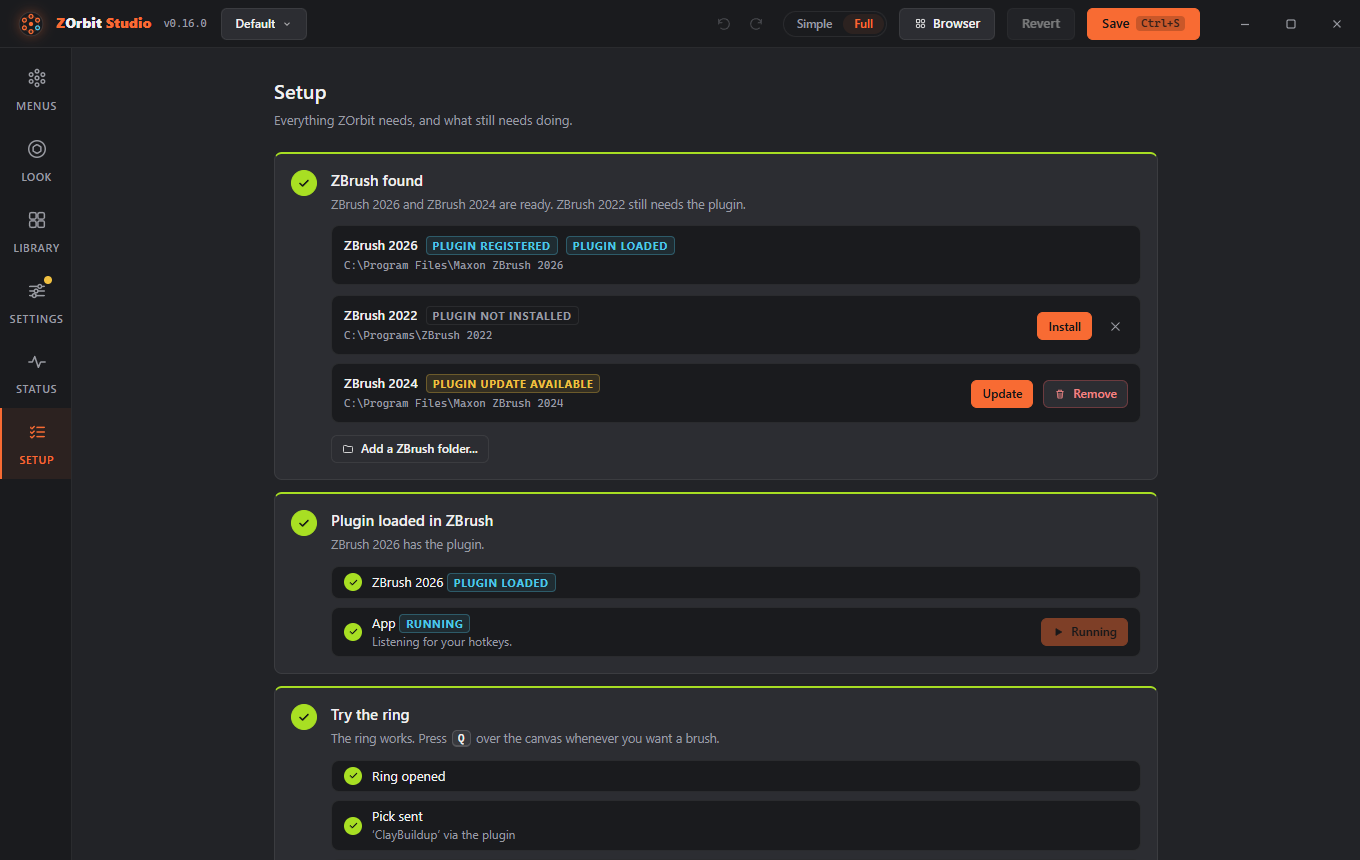
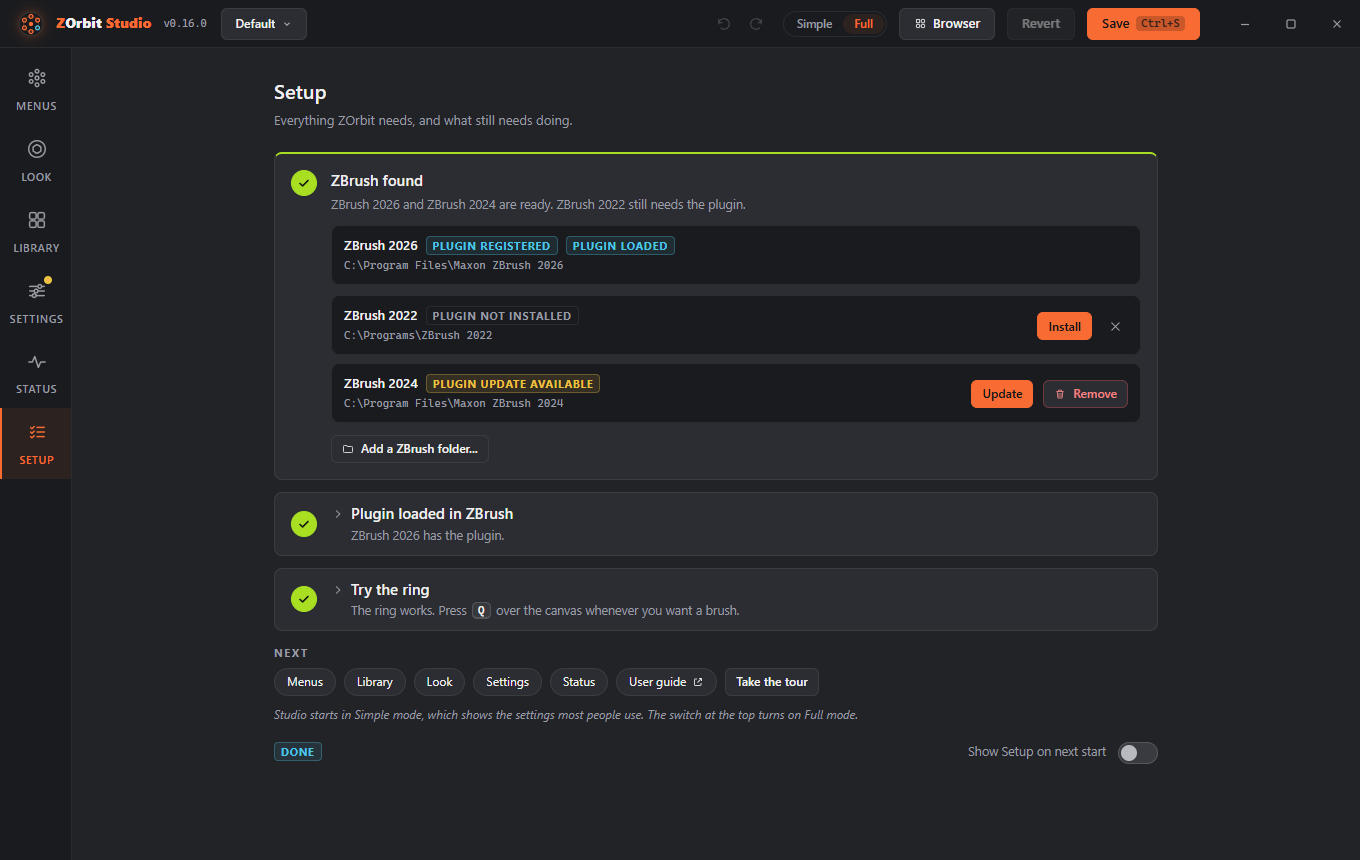
Setup and the tour: three steps and six stops (#117)
* Setup and the tour: shorter (#114)

Setup has three steps (ZBrush found, Plugin loaded, Try the ring). A step that is done folds to one line, a real
button with aria-expanded that opens it again; a step that is warn, off, pending or locked never folds. Your
brushes and What's where are gone: a Next row under the steps has a button for each screen and the user guide
(the description is the tooltip) and Take the tour, with the Simple-mode line under it. The tour is six stops
instead of ten: Screens, The ring, Item/Menu/Library, Look, Simple and Full, Save.

Docs: studio.md (Setup, The tour), install.md and the blog caption for the retaken pictures; setup, setup-done,
setup-restart and studio-tour retaken, studio-tour now clicks Next once.

Closes #114

* Setup: ZBrush found stays open while a ZBrush still needs the plugin or an update

* Setup: Plugin loaded stays open while the app is not running; review fixes

diff --git a/zorbit/studio_ui/app.js b/zorbit/studio_ui/app.js
@@ -4648,9 +4648,9 @@ function setupMenu() {
   return id ? { id, title: menus[id].title || id, hotkey: hk(id) || '' } : null;
 }
 
-/* The five steps from one get_setup answer. Pure: the same data gives the same steps, and every field in a step is
+/* The three steps from one get_setup answer. Pure: the same data gives the same steps, and every field in a step is
    something that is drawn (nothing that ticks, like ages), so JSON of a step tells whether it needs painting again.
-   ctx: { menu: setupMenu(), done: setup_done, startLog: the lines a failed Start app brought back }. */
+   ctx: { menu: setupMenu() (its hotkey is the key step 3 names), startLog: the lines a failed Start app brought back }. */
 function deriveSteps(d, tryFrom, ctx) {
   const installs = d.installs || [], unmatched = d.unmatched_procs || [], env = d.env || {}, zb = d.zbrush || {};
   const now = typeof d.now === 'number' ? d.now : Date.now() / 1000;
@@ -4673,6 +4673,8 @@ function deriveSteps(d, tryFrom, ctx) {
       installed: !!plugin(i).installed, current: !!plugin(i).current, zplugs: plugin(i).zplugs, proc: topProc(i) })) },
     others: (env.other_zorbit || []).map(o => ({ path: o.path, exists: o.exists !== false })),
     bridgeMissing: !!(d.bridge && d.bridge.kind === 'missing') };
+  // Done, but with a row still worth seeing: a ZBrush without the plugin, an update to install, or another ZOrbit registered. The step then stays open.
+  s1.unfinished = unready.length > 0 || s1.legacy.installs.some(z => z.installed && !z.current) || s1.others.length > 0 || s1.bridgeMissing;
   s1.detail = ready.length
     ? list(ready.map(i => i.name)) + (ready.length === 1 ? ' is ready.' : ' are ready.') + (unready.length ? ' ' + list(unready.map(i => i.name)) + (unready.length === 1 ? ' still needs' : ' still need') + ' the plugin.' : '')
     : (installs.length ? 'ZBrush was found, but the ZOrbit plugin is not set up for it yet.' : 'No ZBrush was found. Add its folder if you have one.');
@@ -4691,6 +4693,8 @@ function deriveSteps(d, tryFrom, ctx) {
     elevated,
     app: { running: !!(d.app && d.app.running), zbrush: !!zb.running, checkOk: zb.check_ok !== false },
     startLog: Array.isArray(ctx.startLog) ? ctx.startLog : [] };
+  // Done, but with its body still worth seeing: the app is not running (Start app is in there), a failed start's log, or a ZBrush run as administrator. The step then stays open.
+  s2.unfinished = !s2.app.running || s2.startLog.length > 0 || elevated;
   if (loaded.length) {
     const names = [...new Set(loaded.map(p => p.name))];
     s2.state = 'ok'; s2.detail = list(names) + (names.length === 1 ? ' has the plugin.' : ' have the plugin.');
@@ -4741,16 +4745,7 @@ function deriveSteps(d, tryFrom, ctx) {
   s3.state = locked3 ? 'pending' : (all3 ? 'ok' : (hint ? 'warn' : 'pending'));
   s3.detail = locked3 ? 'Available once the plugin is loaded in ZBrush.'
     : (all3 ? 'The ring works. Press {key} over the canvas whenever you want a brush.' : 'Hover over ZBrush’s canvas, press {key}, and flick toward a brush.');
-
-  /* 4. Your brushes */
-  const m = ctx.menu;
-  const s4 = { id: 'brushes', title: 'Your brushes', menu: m,
-    state: m ? 'ok' : 'pending',
-    detail: m ? (m.hotkey ? m.hotkey + ' opens the “' + m.title + '” ring. Swap in your own brushes if you like.' : 'The “' + m.title + '” ring has no hotkey yet. Swap in your own brushes if you like.') : 'There are no menus yet.' };
-
-  /* 5. What's where */
-  const s5 = { id: 'where', title: 'What’s where', state: ctx.done ? 'ok' : 'pending', detail: 'A quick map of Studio.' };
-  return [s1, s2, s3, s4, s5];
+  return [s1, s2, s3];
 }
 
 const USER_GUIDE_URL = 'https://zorbit.lol/docs/';
@@ -4764,13 +4759,21 @@ const SETUP_WHERE = [
 
 function buildSetupScreen(root) {
   root.replaceChildren();
-  const st = S.setup = S.setup || { data: null, tryFrom: Date.now() / 1000, busy: false, lastAsk: 0 };   // tryFrom outlives a screen switch; Start over resets it
+  const st = S.setup = S.setup || { data: null, tryFrom: Date.now() / 1000, busy: false, lastAsk: 0, open: new Set() };   // tryFrom outlives a screen switch; Start over resets it
   const first = S.prefs.setup_done === false;       // decided once: the footer must not swap itself when the switch below is used
   const list = h('ol', { class: 'setup-steps', 'aria-label': 'Setup steps' });
   const errBox = h('div', { hidden: true, role: 'alert' });
   const foot = h('div', { class: 'setup-foot' });
+  // Always there, above the footer: where to go once the steps are done. The description is the tooltip.
+  const next = h('section', { class: 'setup-next', 'aria-label': 'Next' },
+    h('div', { class: 'micro' }, 'Next'),
+    h('div', { class: 'setup-chips' }, ...SETUP_WHERE.map(([name, text, screen]) => h('button', { class: 'chip', type: 'button', title: text,
+      onclick: screen ? () => showScreen(screen) : async () => { try { await call('open_url', USER_GUIDE_URL); } catch (e) { toast('Could not open the link.', { tone: 'warn' }); } } },
+      name, screen ? null : icon('external', 12))),
+      h('button', { class: 'btn small', type: 'button', title: 'A short tour of this window', onclick: () => startTour() }, 'Take the tour')),
+    h('div', { class: 'fhint' }, 'Studio starts in Simple mode, which shows the settings most people use. The switch at the top turns on Full mode.'));
   root.append(h('div', { class: 'settings-scroll' }, h('div', { class: 'settings setup' },
-    h('div', { class: 'page-head' }, h('h1', null, 'Setup'), h('p', null, 'Everything ZOrbit needs, and what still needs doing.')), errBox, list, foot)));
+    h('div', { class: 'page-head' }, h('h1', null, 'Setup'), h('p', null, 'Everything ZOrbit needs, and what still needs doing.')), errBox, list, next, foot)));
 
   const els = new Map();
   let steps = null;                                 // the last steps drawn: tells the timer whether step 3 is being waited on
@@ -4856,46 +4859,48 @@ function buildSetupScreen(root) {
       out.push(h('div', { class: 'btn-row' }, h('button', { class: 'btn small', type: 'button', title: 'Forget what happened so far and watch for a new try',
         onclick: () => { st.tryFrom = Date.now() / 1000; paint(true); } }, icon('refresh', 12), 'Start over')));
       return out;
-    },
-    brushes(s) {
-      if (!s.menu) return [];
-      const img = h('img', { class: 'ring-img pending', alt: 'Ring preview', draggable: false, onload: () => img.classList.remove('pending') });
-      RingLoader.get(s.menu.id, null).then(res => { if (res && res.image && img.isConnected) img.src = res.image; });
-      const stage = h('div', { class: 'mini-stage' }, h('div', { class: 'stage-rings', 'aria-hidden': 'true' }), h('div', { class: 'mini-wrap' }, img),
-        h('div', { class: 'mini-cap micro' }, 'The ' + s.menu.title + ' ring' + (s.menu.hotkey ? ', on ' + s.menu.hotkey : '')));
-      return [h('div', { class: 'setup-ring' }, stage),
-        h('div', { class: 'btn-row' }, h('button', { class: 'btn small', type: 'button', onclick: () => { S.menuId = s.menu.id; S.itemIdx = null; S.tab = 'menu'; showScreen('menus'); } }, 'Change these brushes'))];
-    },
-    where() {
-      return [h('div', { class: 'setup-where' }, ...SETUP_WHERE.map(([name, text, screen]) => h('div', { class: 'zrow' },
-        h('div', { class: 'grow' }, h('b', null, name), h('small', null, text)),
-        screen ? h('button', { class: 'btn small', type: 'button', onclick: () => showScreen(screen) }, 'Open')
-          : h('button', { class: 'btn small', type: 'button', onclick: async () => { try { await call('open_url', USER_GUIDE_URL); } catch (e) { toast('Could not open the link.', { tone: 'warn' }); } } }, icon('external', 12), 'Open')))),
-        h('div', { class: 'btn-row' }, h('button', { class: 'btn small', type: 'button', title: 'A short tour of this window', onclick: () => startTour() }, 'Take the tour')),
-        h('div', { class: 'fhint' }, 'Studio starts in Simple mode, which shows the settings most people use. The switch at the top turns on Full mode.')];
     } };
 
+  /* A step that is done folds to its head (a tick, the title and one line); the user opens it again with a click, and st.open
+     remembers that. A step that needs attention, is waiting or is locked never folds: its body is the thing to read. */
+  const foldable = s => s.state === 'ok' && !s.unfinished;
+  const isFolded = s => foldable(s) && !st.open.has(s.id);
   const renderStep = (el, s, n) => {
     const parts = String(s.detail || '').split('{key}');
     const detail = h('div', { class: 'sdetail' }, ...parts.flatMap((t, i) => (i ? [hkChips(s.key || 'Q', 'sm'), t] : [t])));
     const body = ((own(bodies, s.id) ? bodies[s.id](s) : null) || []).filter(Boolean);
+    const can = foldable(s) && body.length > 0, folded = can && isFolded(s), bodyId = 'sbody-' + s.id;
+    const headKids = [h('b', { class: 'stitle' }, s.title), detail];
+    const head = can
+      ? h('button', { class: 'sfold', type: 'button', 'aria-expanded': String(!folded), 'aria-controls': bodyId, onclick: () => {
+        if (st.open.has(s.id)) st.open.delete(s.id); else st.open.add(s.id);
+        const cur = steps && steps.find(x => x.id === s.id);
+        if (!cur) return;
+        draw(el, cur, n);
+        const again = el.querySelector('.sfold'); if (again) again.focus();         // the button was rebuilt: the keyboard stays on it
+      } }, h('span', { class: 'schev', 'aria-hidden': 'true' }, icon(folded ? 'chevR' : 'chevD', 14)), h('span', { class: 'shead' }, ...headKids))
+      : h('div', { class: 'shead' }, ...headKids);
     el.replaceChildren(h('div', { class: 'snum', 'aria-hidden': 'true' }, s.state === 'ok' ? icon('check', 14) : String(n)),
-      h('div', { class: 'smain' }, h('b', { class: 'stitle' }, s.title), detail, body.length ? h('div', { class: 'sbody' }, ...body) : null));
+      h('div', { class: 'smain' }, head, body.length ? h('div', { class: 'sbody', id: bodyId, hidden: folded }, ...body) : null));
   };
+  /* One step's li: its classes, its signature (what is drawn, folded or not) and its content. */
+  const sigOf = s => JSON.stringify(s) + (isFolded(s) ? '|folded' : '');
+  function draw(el, s, n) {
+    el.className = 'sstep ' + s.state + (s.locked ? ' locked' : '') + (isFolded(s) ? ' folded' : '');
+    el._sig = sigOf(s);
+    renderStep(el, s, n);
+  }
 
   // Draws what changed. force: redraw every step (after an action of ours), else a step that is mid-action keeps its buttons.
   function paint(force) {
     const d = st.data;
     if (!d) return;
-    steps = deriveSteps(d, st.tryFrom, { menu: setupMenu(), done: S.prefs.setup_done !== false, startLog: st.startLog });
+    steps = deriveSteps(d, st.tryFrom, { menu: setupMenu(), startLog: st.startLog });
     steps.forEach((s, i) => {
       let el = els.get(s.id);
       if (!el) { el = h('li', { class: 'sstep', dataset: { step: s.id } }); els.set(s.id, el); list.append(el); }
-      el.className = 'sstep ' + s.state + (s.locked ? ' locked' : '');
-      const sig = JSON.stringify(s);
-      if (!force && (el._sig === sig || el.querySelector('.btn.running'))) return;
-      el._sig = sig;
-      renderStep(el, s, i + 1);
+      if (!force && (el._sig === sigOf(s) || el.querySelector('.btn.running'))) { el.className = 'sstep ' + s.state + (s.locked ? ' locked' : '') + (el.classList.contains('folded') ? ' folded' : ''); return; }   // the body is not redrawn, so the fold class stays as drawn
+      draw(el, s, i + 1);
     });
     paintStart();
   }
@@ -6351,17 +6356,12 @@ async function afterBoot() {
 /* The guided tour (#41). A stop names the screen it needs and the element to light up. A stop whose element is missing,
    hidden or squeezed to nothing (profiles off, a narrow window) is skipped. */
 const TOUR_STOPS = [
-  { screen: null, target: () => $('.rail'), title: 'Screens', text: 'Studio has six screens. Click one here, or press Alt+1 to Alt+6.' },
-  { screen: 'menus', target: () => $('#screen-menus .menus-col'), title: 'Menus', text: 'Each menu is a ring. A menu with a hotkey opens over ZBrush; one without is a submenu.' },
-  { screen: 'menus', target: () => $('#screen-menus .stage'), title: 'The ring', text: 'How the ring will look. Drag brushes onto it, drag slots to reorder them, and click one to edit it.' },
+  { screen: null, target: () => $('.rail'), title: 'Screens', text: 'Studio has six screens. Click one here, or press Alt+1 to Alt+6. Status and Setup are there when something is not working.' },
+  { screen: 'menus', target: () => $('#screen-menus .stage'), title: 'The ring', text: 'How the ring will look. Drag brushes onto it, drag slots to reorder them, and click one to edit it. The menus are listed on the left: a menu with a hotkey opens over ZBrush, one without is a submenu.' },
   { screen: 'menus', target: () => $('#screen-menus .right-col .tabs'), title: 'Item, Menu, Library', text: 'Item edits the slot you clicked, Menu edits the whole ring, and Library lists brushes to drag in.' },
   { screen: 'look', target: () => $('#screen-look .look-left .mini-stage'), title: 'Look', text: 'How the ring looks: its size, the shape of the slots, labels and colours. It applies to every menu, and the preview here shows any menu you pick.' },
-  { screen: null, target: () => $('.rail-btn[data-screen="library"]'), title: 'Library', text: 'Every brush, alpha, material and texture ZBrush can load, with tags and favourites.' },
-  { screen: null, target: () => $('#profileBtn'), title: 'Profiles', text: 'A whole set of menus and settings for each kind of work.' },
   { screen: null, target: () => $('#modeSeg'), title: 'Simple and Full', text: 'Simple shows the everyday controls. Full shows every control. The ring is the same in both.' },
-  { screen: null, target: () => [$('#revertBtn'), $('#saveBtn')], title: 'Save', text: 'Nothing reaches the ring until you save. Then it applies straight away. Revert goes back to what was saved.' },
-  { screen: null, target: () => [$('.rail-btn[data-screen="status"]'), $('.rail-btn[data-screen="setup"]')], title: 'When something is not working',
-    text: 'Status shows whether ZBrush and the app are running, with the log. Setup is the first-start checklist. You can take this tour again from there or from Settings > Studio.' }
+  { screen: null, target: () => [$('#revertBtn'), $('#saveBtn')], title: 'Save', text: 'Nothing reaches the ring until you save. Then it applies straight away. Revert goes back to what was saved. You can take this tour again from Setup or Settings > Studio.' }
 ];
 /* The bounding box of a stop's element(s) on screen, or null when none of them can be seen. */
 function tourRect(stop) {

diff --git a/zorbit/studio_ui/styles.css b/zorbit/studio_ui/styles.css
@@ -940,6 +940,14 @@ body.dragging .irow:hover { background: transparent; }
 .sstep.ok .snum svg { stroke-width: 2.6; }
 .smain { flex: 1; min-width: 0; }
 .stitle { display: block; font-size: 15px; font-weight: 600; }
+.shead { display: block; min-width: 0; }
+/* A step that is done is a button: its head folds the step to one line and opens it again. */
+.sfold { display: flex; align-items: flex-start; gap: 6px; width: 100%; margin: 0; padding: 0; background: none; border: 0; border-radius: 6px; color: inherit; font: inherit; text-align: left; cursor: pointer; }
+.sfold:focus-visible { outline: 2px solid var(--accent); outline-offset: 4px; }
+.sfold:hover .stitle { text-decoration: underline; text-decoration-color: var(--line2); text-underline-offset: 3px; }
+.schev { flex: none; display: grid; place-items: center; width: 14px; height: 22px; color: var(--sub); }
+.sstep.ok.folded { align-items: center; padding: 10px 16px; border-top-width: 1px; border-top-color: var(--line); }
+.sstep.ok.folded .sdetail { margin-top: 1px; }
 .sdetail { margin-top: 3px; color: var(--sub); font-size: 12.5px; line-height: 1.5; }
 .sdetail .hk { margin: 0 2px; vertical-align: 1px; }
 .sbody { margin-top: 12px; display: flex; flex-direction: column; gap: 10px; }
@@ -956,12 +964,12 @@ body.dragging .irow:hover { background: transparent; }
 .sub-check.pending .sdot.sglyph { background: transparent; border: 1.5px solid var(--c); color: var(--c); opacity: 1; }
 .sdot.sglyph svg { stroke-width: 2.4; }
 .sub-check small { display: block; color: var(--sub); font-size: 12px; }
-.setup-where { display: flex; flex-direction: column; gap: 8px; }
-.setup-where .zrow b { font-weight: 600; }
-.setup-where .zrow small { display: block; color: var(--sub); font-size: 12px; }
+.setup-next { margin: 0 0 16px; display: flex; flex-direction: column; gap: 10px; }
+.setup-chips { display: flex; flex-wrap: wrap; align-items: center; gap: 8px; }
+.setup-chips .chip { height: 28px; padding: 0 12px; color: var(--text); cursor: pointer; }
+.setup-chips .chip:hover { border-color: var(--line2); background: var(--bg2); }
 .setup-foot { display: flex; align-items: center; justify-content: space-between; gap: 12px; flex-wrap: wrap; margin-bottom: 16px; }
 .setup-foot .foot-note { display: inline-flex; align-items: center; gap: 12px; color: var(--sub); font-size: 12.5px; }
-.setup-ring { max-width: 280px; }
 
 @media (max-height: 800px) {
   /* short windows: the ring stage gives some height back to the item list */

diff --git a/tools/docs_shots.py b/tools/docs_shots.py
@@ -83,15 +83,17 @@ SHOTS = {
     "studio-settings": dict(q="screen=settings"),
     "studio-settings-simple": dict(q="screen=settings&mode=simple"),
     "studio-light": dict(q="screen=settings&theme=light"),
-    # studio-tour opens the guided tour, waits for its card and clicks Next twice: stop 3 of 10, The ring, lit.
+    # studio-tour opens the guided tour, waits for its card and clicks Next once: stop 2 of 6, The ring, lit.
     "studio-tour": dict(q="screen=menus", steps=[
         "startTour()",
         "new Promise(r => { const t0 = Date.now(); (function w() {"
         " if (document.querySelector('.tour.in') || Date.now() - t0 > 5000) r(); else setTimeout(w, 100); })(); })",
         "document.querySelector('.tour-card .btn.primary').click()",
-        "document.querySelector('.tour-card .btn.primary').click()",
     ]),
+    # setup: all three steps done; the first stays open because a ZBrush 2022 still needs the plugin, so the picture shows both an open step and folded ones.
     "setup": dict(q="screen=setup&zb=both&ringtried=done"),
+    # setup-done: what Setup looks like on a later visit, with every step done and folded to one line.
+    "setup-done": dict(q="screen=setup&zb=2026&ringtried=done"),
     "setup-restart": dict(q="screen=setup&zb=2026&zbstale"),
     "browser": dict(page="popout.html", q="kind=brush", size=(980, 680)),
     "browser-light": dict(page="popout.html", q="kind=brush&theme=light", size=(980, 680)),

diff --git a/docs/studio.md b/docs/studio.md
@@ -10,7 +10,7 @@ Studio is where you edit everything. Open it from the Start menu (**ZOrbit Studi
 | Library | Alt+3 | Browse the brushes, alphas, materials and textures ZBrush can load, on four tabs, with search, folders and thumbnails. Click an item and press **Add to <menu>**, or drag it onto a menu, the ring or the item list. **Rescan** picks up items saved since Studio opened. Tag items and filter by tag (see [Tags](tags.md)). Star favourites; Recent lists what you have picked in ZBrush (see [Favourites and Recent](browser.md#favourites-and-recent)). |
 | Settings | Alt+4 | The theme, a **Ring look** card with a button that opens Look, the open animation, flick, the browser hotkey, Studio's own preferences, and Import and export (see [Import and export](files.md#import-and-export)). [Full mode](#simple-and-full-mode) adds hover submenus, tap time, auto-close, the bridge, Older ZBrush and tags. |
 | Status | Alt+5 | Four cards: **ZBrush** (running or not), **ZOrbit app** (running or not, with **Start app** when ZBrush is running, or amber with **Restart app** when the app running is older than Studio: see [Older versions](profiles.md#older-versions)), **Bridge listener** (the small window the plugin keeps inside ZBrush: **Connected**, **Found, unverified**, **Stale** or **Not found**; **ZBrush closed** in grey when ZBrush is not running, since there is nothing to listen in; and **Not needed (key bridge)** when the bridge mode is `key` or only a ZBrush 2022 to 2025 is installed) and **Last pick** (the most recent item sent to ZBrush). Below them the last 40 lines of the app log, with **Copy log**, **Open logs folder** and **Open menus folder** (the folder of the profile you are editing, which holds its `radial.json`). The screen refreshes every 3 seconds. A dot on this button in the rail means the app is not running while ZBrush is. |
-| Setup | Alt+6 | A checklist of five steps: ZBrush found (with the plugin set up for it), plugin loaded in ZBrush, try the ring, your brushes, and what's where. It shows live state and offers one action per step. An amber dot on this button in the rail means no ZBrush that Studio found has the plugin set up, or a running ZBrush does not. Finding no ZBrush at all does not count. |
+| Setup | Alt+6 | A checklist of three steps: ZBrush found (with the plugin set up for it), plugin loaded in ZBrush, and try the ring. It shows live state and offers one action per step, and ends with links to the other screens and **Take the tour**. An amber dot on this button in the rail means no ZBrush that Studio found has the plugin set up, or a running ZBrush does not. Finding no ZBrush at all does not count. |
 
 ![The Library screen on the Brushes tab: folders and tags on the left, a grid of brush thumbnails, and the Add to Brushes panel on the right](images/studio-library.png)
 
@@ -73,29 +73,31 @@ The steps:
 1. **ZBrush found.** Every ZBrush version Studio found. For ZBrush 2026 and newer, each row says **Plugin registered** or **Plugin not registered**, which is whether `ZBRUSH_PLUGIN_PATH` points at the plugin; **Fix** adds it the way the installer does. Restart ZBrush afterwards. If another ZOrbit folder is in that variable too, a line says **Also registered** with its path: ZBrush loads both, so remove the old one in Windows' environment variables. Rows for [ZBrush 2022 to 2025](install.md#zbrush-2022-to-2025) say **Plugin installed**, **Plugin not installed** or **Plugin update available**, with the same **Install**, **Update** and **Remove** buttons as **Settings > Older ZBrush** (Full mode). For a ZBrush under Program Files, **Install**, **Update** and **Remove** each ask you to approve a Windows prompt. **Add a ZBrush folder** adds a ZBrush Studio did not find.
 2. **Plugin loaded in ZBrush.** Live: whether ZBrush is running, which version, whether it loaded the plugin, and whether it needs a restart because it was started before the plugin was set up. When it did not load the plugin, the line under it says what to do: press **Fix** in step 1 and restart ZBrush, or close ZBrush completely and start it from the Start menu (a ZBrush started from a program that was already open does not get the new setting), and read `bridge.log` or `zscript_launch.log` if that does not help. A ZBrush running as administrator cannot be read, so Studio says the ring will not open and asks you to start ZBrush without **Run as administrator**; if the plugin's listener is up in it, the plugin still counts as loaded. A ZBrush running from a folder Studio does not know gets a note to add that folder with **Add a ZBrush folder** in step 1. If the check itself fails, Setup says so and keeps showing the last steps that worked. It also shows whether the app is running, with **Start app**.
 3. **Try the ring.** Hover ZBrush's canvas, press Q and flick to a brush. Three checks tick off as it happens: ring opened, pick sent, ZBrush did it. If the app could not send the pick, the hint says why and what to do: the bridge mode is **Message** and the plugin is not answering, no bridge key is set, ZBrush was not the front window, or the app could not write its request file. If ZBrush does not confirm a pick that was sent, the hint says what to look at for the route it took, naming your bridge key (F9 unless you changed it). If ZBrush answered with a failure, the hint is that line from the log instead. **Start over** forgets the try so far. This step reads `activity.json` (see [Files and logs](files.md#files-and-logs)).
-4. **Your brushes.** A preview of the Q ring, and **Change these brushes**, which opens it on the Menus screen.
-5. **What's where.** A line on each of Menus, Look, Library, Settings, Status and the user guide, which links to these pages. It also says that Studio starts in Simple mode and that the switch at the top turns on Full mode (see [Simple and Full mode](#simple-and-full-mode)). **Take the tour** starts [the tour](#the-tour) of the window.
+
+A step that is done folds to one line: a tick, its title and a sentence such as "ZBrush 2026 has the plugin." Press that line (or focus it and press **Enter** or **Space**) to open the step again, and again to fold it. A step that needs attention, is waiting or is locked stays open, so what to do is always in front of you. So does **ZBrush found** while one of your ZBrush versions still needs the plugin or an update, so its **Install** and **Update** buttons stay in view. **Plugin loaded in ZBrush** stays open while the app is not running, so **Start app** is in view. On a later visit a healthy install shows three one-line rows.
+
+![The Setup screen with ZBrush found open, showing a row for each ZBrush version, and Plugin loaded in ZBrush and Try the ring ticked and folded to one line each](images/setup.png)
+
+Under the steps, a **Next** row has a button for each of Menus, Library, Look, Settings, Status and the user guide (hover one to see what it holds), and **Take the tour**, which starts [the tour](#the-tour) of the window. Under it a line says that Studio starts in Simple mode and that the switch at the top turns on Full mode (see [Simple and Full mode](#simple-and-full-mode)).
+
+![The Setup screen on a later visit: the three steps folded to one line each, the Next row below them](images/setup-done.png)
 
 ## The tour
 
-The tour walks you round the Studio window. It lights up one part at a time and puts a card beside it with a title, a sentence or two and a count such as "3 of 10". **Next** moves on (it reads **Done** on the last stop), **Back** goes back, and **End tour** stops at any point.
+The tour walks you round the Studio window. It lights up one part at a time and puts a card beside it with a title, a sentence or two and a count such as "2 of 6". **Next** moves on (it reads **Done** on the last stop), **Back** goes back, and **End tour** stops at any point.
 
-![The tour on its third stop, the ring, with the card beside the ring preview](images/studio-tour.png)
+![The tour on its second stop, the ring, with the card beside the ring preview](images/studio-tour.png)
 
 The tour starts on the Menus screen and stops at:
 
-1. The rail of screens (**Alt+1** to **Alt+6**).
-2. The list of menus.
-3. The ring preview.
-4. The **Item**, **Menu** and **Library** tabs.
-5. The ring preview on the **Look** screen.
-6. The **Library** button in the rail.
-7. The profile button.
-8. The **Simple** / **Full** switch.
-9. **Revert** and **Save**.
-10. **Status** and **Setup** in the rail.
+1. The rail of screens (**Alt+1** to **Alt+6**). **Status** and **Setup** are there for when something is not working.
+2. The ring preview. The list of menus is beside it.
+3. The **Item**, **Menu** and **Library** tabs.
+4. The ring preview on the **Look** screen.
+5. The **Simple** / **Full** switch.
+6. **Revert** and **Save**.
 
-A stop whose part is not on screen, such as the profile button when it is hidden, is skipped and left out of the count.
+A stop whose part cannot be seen, for example in a very small window, is skipped and left out of the count.
 
 **Right** goes to the next stop, **Left** goes back and **Esc** ends the tour. **Tab** moves between the buttons on the card. While the tour is open you cannot click the rest of the window, and Studio's shortcuts (**Ctrl+S**, **Ctrl+Z**, **Alt+1** to **Alt+6**) do nothing until it ends.
 
@@ -103,7 +105,7 @@ The tour changes no menu and no setting. When it ends, Studio goes back to the s
 
 Studio offers the tour once, after you press **Finish** or **Skip for now** on [Setup](#setup): "Take a short tour of Studio?" with **Not now** and **Take the tour**. If you close Studio before answering, it asks at the next start. Whatever you answer, **Esc** included, it does not ask again. People who used Studio before the tour existed are not asked.
 
-To take it later, press **Take the tour** in Setup step 5 (**What's where**) or in **Settings > Studio**, next to **What's new**. Once the tour has been offered or taken, `studio.json` has `tour_seen` set to true.
+To take it later, press **Take the tour** on **Setup** (in the **Next** row) or in **Settings > Studio**, next to **What's new**. Once the tour has been offered or taken, `studio.json` has `tour_seen` set to true.
 
 ## Keyboard shortcuts
 

diff --git a/docs/blog/posts/zorbit-0-14-0.md b/docs/blog/posts/zorbit-0-14-0.md
@@ -53,7 +53,7 @@ Two follow-ups are already open: [custom themes](https://github.com/combwizard/z
 
 Studio has grown a lot over the last few releases: five screens, a library, profiles, a Simple and a Full mode. That is a lot to take in when you open it for the first time, and some of it, like the profile button or the fact that nothing reaches the ring until you save, is easy to miss. So Studio now has a tour ([#41](https://github.com/combwizard/zorbit/issues/41)).
 
-![The tour on its third stop, the ring, with the card beside the ring preview](../../images/studio-tour.png)
+![The tour on the ring stop, with the card beside the ring preview](../../images/studio-tour.png)
 
 It lights up one part of the window at a time and puts a card next to it with a sentence or two about what it is for. It starts with the screens down the left and the list of menus, then the ring preview, where you drag brushes in and click a slot to edit it, and the **Item**, **Menu** and **Library** tabs beside it. After that come the Library, the profile button and the **Simple** / **Full** switch. It ends with **Save** and **Revert**, and with **Status** and **Setup** for when something isn't working. That's nine stops, and it takes about a minute.
 

diff --git a/docs/install.md b/docs/install.md
@@ -15,7 +15,7 @@
 
 The first time you open **ZOrbit Studio** it starts on its **Setup** screen. Setup walks through the rest: it finds your ZBrush, tells you whether to restart it, lists each ZBrush 2022 to 2025 it finds with an **Install** button (press it for each version you use), and has you try the ring once. You can reopen it any time with Alt+6.
 
-![The Setup screen with ZBrush found, Plugin loaded in ZBrush and Try the ring all ticked, and a row for each ZBrush version with its Install, Update or Remove button](images/setup.png)
+![The Setup screen with ZBrush found open, showing a row for each ZBrush version with its Install, Update or Remove button, and Plugin loaded in ZBrush and Try the ring ticked and folded to one line each](images/setup.png)
 
 The first run puts a starter set of menus in the **Default** profile, `%APPDATA%\ZOrbit\profiles\Default\radial.json`. See [Profiles](profiles.md). They use only brushes that come with ZBrush.
 

diff --git a/CHANGELOG.md b/CHANGELOG.md
@@ -14,6 +14,7 @@ All notable changes to this project are listed here. The format follows
 
 ### Changed
 
+- **Setup** has three steps. A step that is done folds to one line you can open again. **Your brushes** and **What's where** are gone; Setup ends with a **Next** row of links to the screens and **Take the tour**. The tour is six stops instead of ten.
 - An open browser now changes theme the moment you pick one in Studio, instead of up to half a second later.
 - ZOrbit is now built and tested on Python 3.14 instead of 3.12. The packaged app bundles the new interpreter; running from a checkout needs Python 3.14.
 - On Settings, the **Browser** card now comes before **ZBrush bridge**. The "On this page" list follows the new order.
